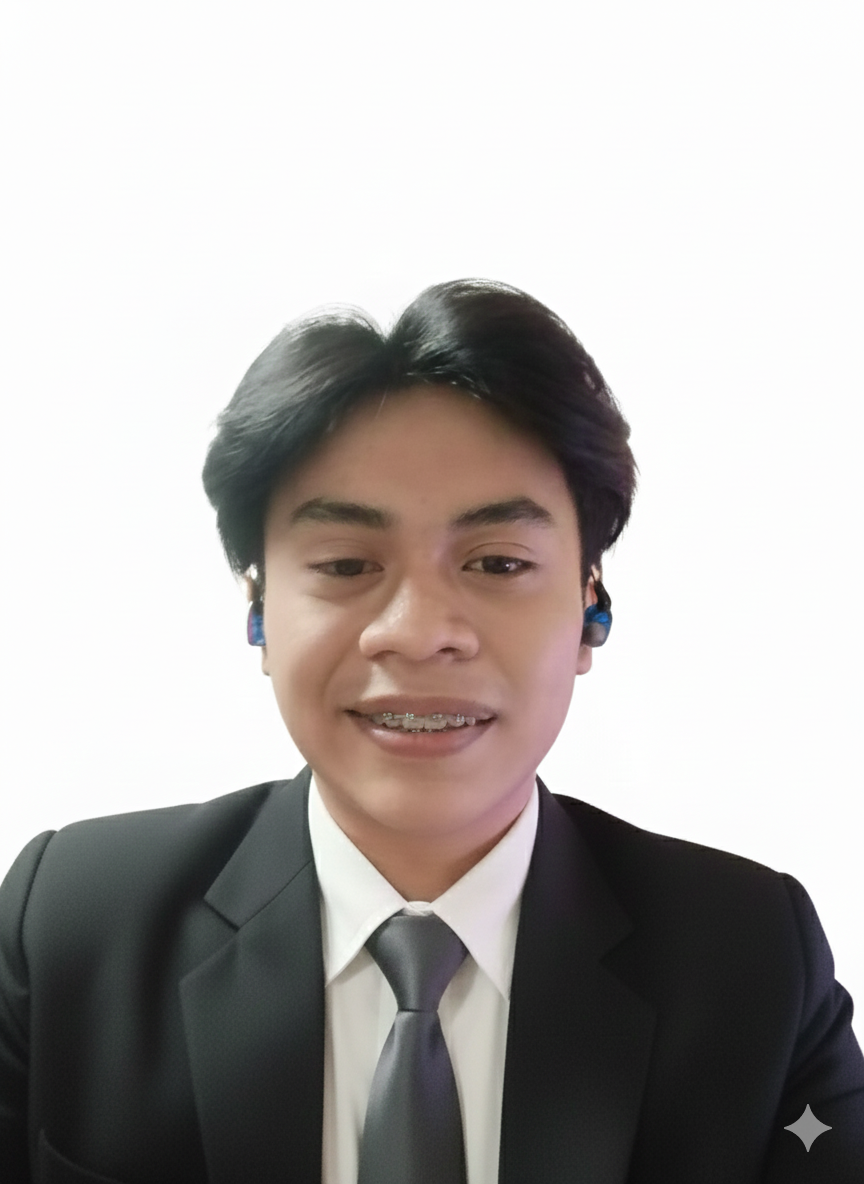
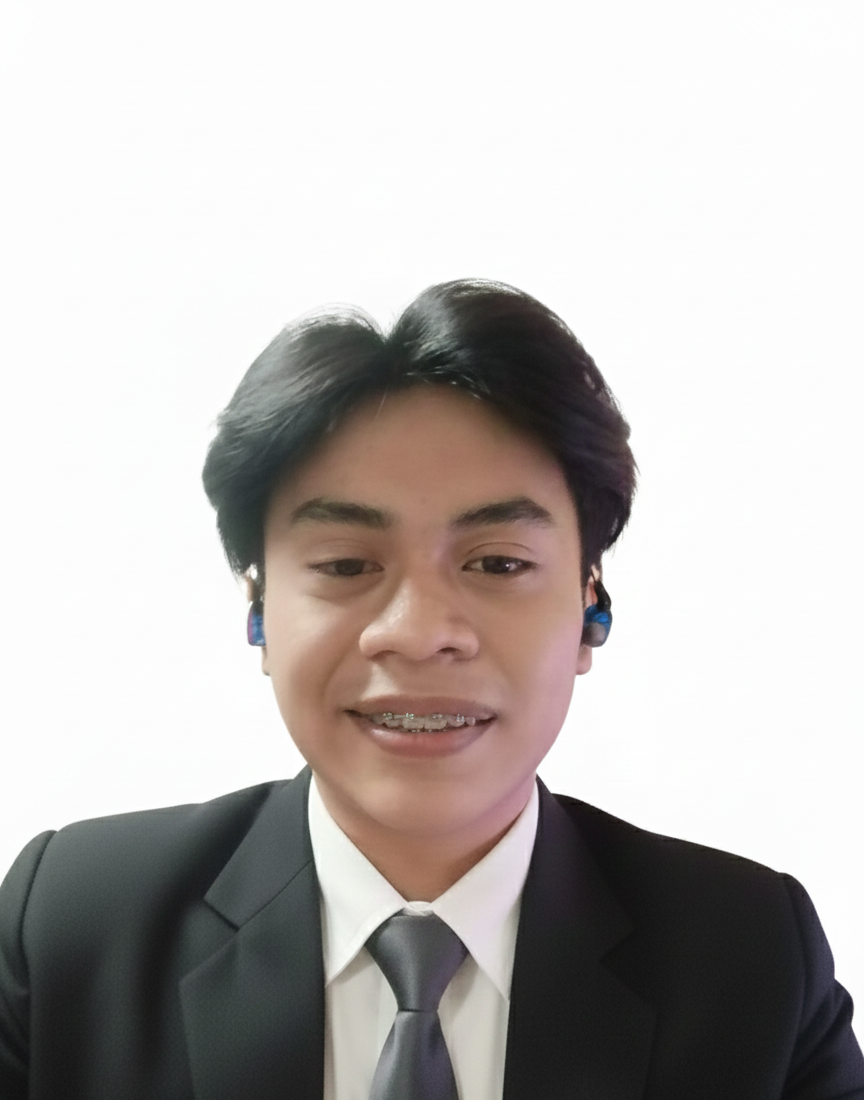
navbar

Changed region(s): [[0.0, 0.2164, 1.0, 1.0], [0.3438, 0.9891, 0.375, 1.0]]

diff --git a/index.html b/index.html
@@ -1,5 +1,5 @@
 <!DOCTYPE html>
-<html lang="en" class="scroll-smooth">
+<html style="font-family: 'Poppins', sans-serif;" lang="en" class="scroll-smooth">
 <head>
     <meta charset="UTF-8">
     <meta name="viewport" content="width=device-width, initial-scale=1.0">
@@ -13,7 +13,22 @@
     <script src="https://cdn.tailwindcss.com"></script>
     <title>Jadrien Roi | Personal Portfolio</title>
 </head>
-<body class="">
-    
+<body class="bg-[#18181B]">
+    <nav class="flex items-center justify-between py-[2rem] px-[1rem] max-w-[1200px] mx-auto gap-[2rem]">
+        <div class="">
+            <img class="rounded-full object-cover w-20 h-full transition-all duration-300 lg:hover:scale-105" src="images/jd.png" alt="Jadrien Roi Picture">
+        </div>
+
+        <ul class="flex gap-[3rem]">
+            <li><a href="#" class="relative text-white text-lg tracking-wide pb-1 after:absolute after:left-0 after:bottom-0 after:h-[2px] after:w-0 after:bg-[#1d3ed8] after:transition-all after:duration-300 hover:after:w-full">Home</a></li>
+            <li><a href="#" class="relative text-white text-lg tracking-wide pb-1 after:absolute after:left-0 after:bottom-0 after:h-[2px] after:w-0 after:bg-[#1d3ed8] after:transition-all after:duration-300 hover:after:w-full">About</a></li>
+            <li><a href="#" class="relative text-white text-lg tracking-wide pb-1 after:absolute after:left-0 after:bottom-0 after:h-[2px] after:w-0 after:bg-[#1d3ed8] after:transition-all after:duration-300 hover:after:w-full">Services</a></li>
+            <li><a href="#" class="relative text-white text-lg tracking-wide pb-1 after:absolute after:left-0 after:bottom-0 after:h-[2px] after:w-0 after:bg-[#1d3ed8] after:transition-all after:duration-300 hover:after:w-full">Pricing</a></li>
+        </ul>
+
+        <button class="bg-[#1d3ed8] text-white py-3 px-5 transition-all duration-300 hover:bg-[#1635C4]">
+            <a href="https://www.facebook.com/jadrienwebdev">Hire Me</a>
+        </button>
+    </nav>
 </body>
 </html>
